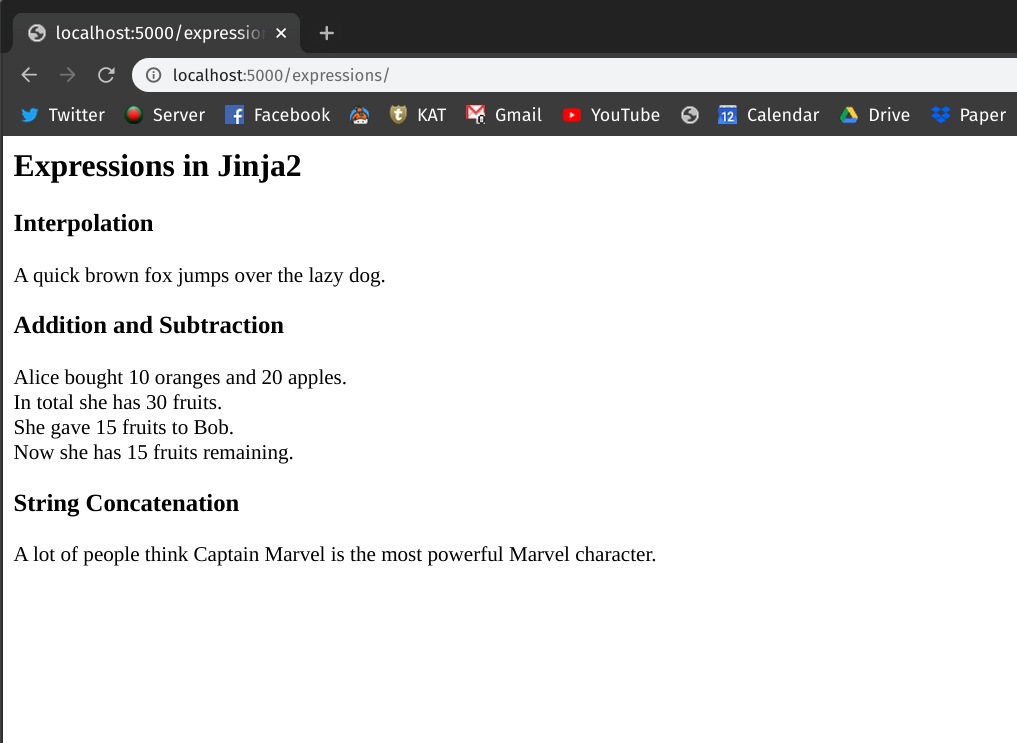
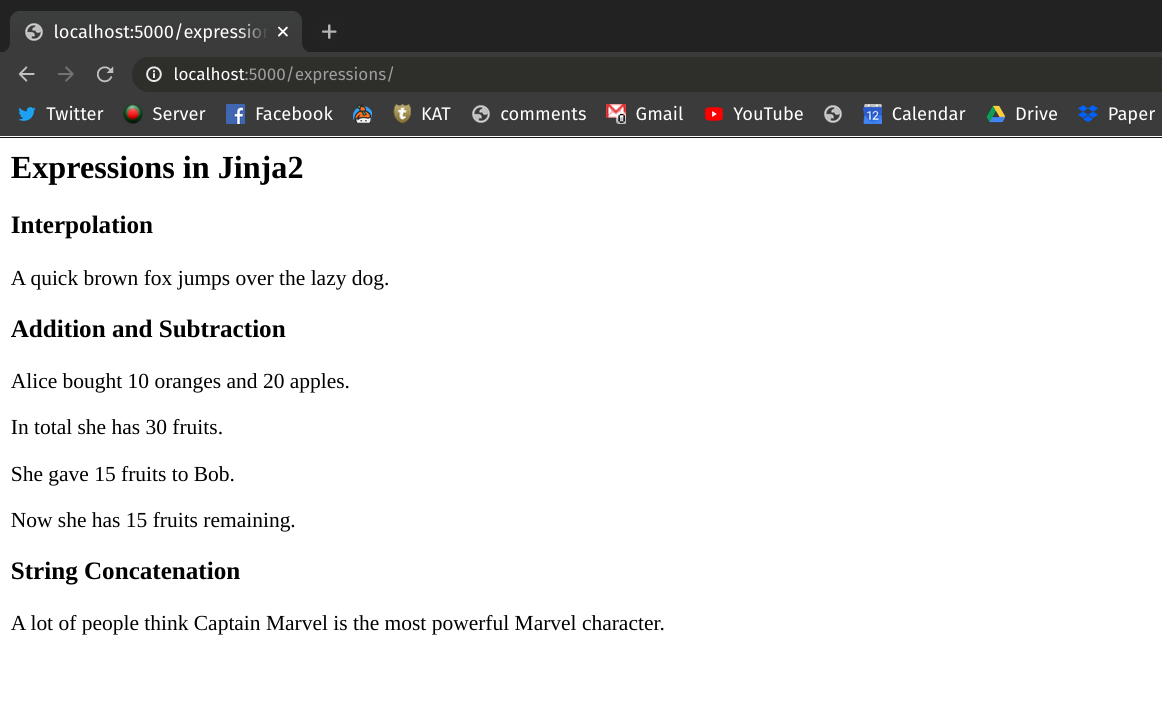
Rephrase

Changed region(s): [[0.0, 0.0, 1.0, 0.8886], [0.0, 0.0919, 0.0305, 0.1226]]

diff --git a/curriculum/section06/lectures/04_jinja2_expressions_and_data_structures/README.md b/curriculum/section06/lectures/04_jinja2_expressions_and_data_structures/README.md
@@ -1,16 +1,16 @@
 # Jinja2: Expressions & Data Structures
 
-By now you already know how to use Jinja2 and Flask's `render_template` method to interpolate placeholder values in HTML files and send them to the browser. Jinja2 also lets you evaluate Python expressions and data structures while filling in the placeholders with values that are more complex than simple variables.
+By now you already know how to use Jinja2 and Flask's `render_template` method to interpolate placeholder values into HTML files and send them to the browser. Jinja2 also lets you evaluate a limited[^jinja2-limitations] number of Python expressions and data structures.
 
 In this lesson, you'll see how you can evaluate different Python expressions, incorporate a few data structures in Jinja2 and render them using the `render_template` method.
 
 ## What is an Expression?
 
-In Python, an expression[^expression] represents something; like a number, a string, or an instance of a class. To be an expression, a Python instruction has to evaluate down to a single value.
+A Python expression[^expression] is any piece of code; like a number, a string, or an instance of a class that evaluates down to a single value.
 
 > An expression is an instruction that combines values and operators and always evaluates down to a single value.
 
-For example, `>>> foo = 2 + 2` is an expression that evaluates to a single value `4`. In contrast, a Python instruction that doesn't evaluate down to a single value is generally known as a statement, i.e. an `if-else` statement.
+For example, `>>> foo = 2 + 2` is an expression because it evaluates to a single value `4`. In contrast, a Python instruction that doesn't evaluate down to a single value is generally known as a statement (i.e. an `if-else` statement).
 
 ## Expressions in Jinja2
 
@@ -18,39 +18,45 @@ This section explains how you can evaluate Python expressions in Jinja2 and rend
 
 Let's perform some basic operations like **addition**, **subtraction** and **string concatenation** via Jinja template. To follow along, create a new HTML template file named `expressions.html` in the `/templates` folder of your Flask project's directory. The content of the file should look like this:
 
-```html{19,22,28}
+```html{20,24,28,34}
 <!-- templates/expressions.html -->
 
-<h2> Expressions in Jinja2 </h2>
+<h2>Expressions in Jinja2</h2>
 
-<h3> Interpolation </h3>
-
-<p>
-    A quick {{ color }} {{ animal_one }} jumps over the lazy
-    {{ animal_two }}.
-</p>
-
-<h3> Addition and Subtraction </h3>
+<h3>Interpolation</h3>
 
 <p>
-    Alice bought {{ orange_amount }} oranges and {{ apple_amount }}
-    apples.<br>
-
-    In total she has {{ orange_amount + apple_amount }} fruits. <br>
-    She gave {{ donate_amount }} fruits to Bob. <br>
-
-    Now she has {{ orange_amount + apple_amount - donate_amount }}
-    fruits remaining.
+A quick {{ color }} {{ animal_one }} jumps over the lazy
+{{ animal_two }}.
 </p>
 
-<h3> String Concatenation </h3>
+<h3>Addition and Subtraction</h3>
 
-<p> A lot of people think {{ first_name + ' ' + last_name }} is the most
-    powerful Marvel character.
+<p>
+Alice bought {{ orange_amount }} oranges and {{ apple_amount }} apples.
+</p>
+
+<p>
+In total she has {{ orange_amount + apple_amount }} fruits.
+</p>
+
+<p>
+She gave {{ donate_amount }} fruits to Bob.
+</p>
+
+<p>
+Now she has {{ orange_amount + apple_amount - donate_amount }}
+fruits remaining.
+</p>
+
+<h3>String Concatenation</h3>
+
+<p>A lot of people think {{ first_name + ' ' + last_name }} is the most
+powerful Marvel character.
 </p>
 ```
 
-The header tags in of the above HTML file denotes what sort of expression operations are taking place in the template. In line **18**, **21** and **26**, notice how you can perform different operations like addition, subtraction and string concatenation inside the double braces `{{ }}`.
+The header tags in of the above HTML file denotes what sort of expression operations are taking place in the template. In line **19**, **23**, **27** and **33** notice how you can perform different operations like addition, subtraction and string concatenation inside the double braces `{{ }}`.
 
 Now we'll evaluate these expression operations and render the results using the `render_template` method. Let's create a new endpoint in our `app.py` file named `/expressions/` and perform rendering there.
 
@@ -95,7 +101,7 @@ def render_expressions():
 
 In the above file, we just have to define the placeholder variables and the evaluation part will be taken care by the Jinja2 template engine.
 
-In line **25**, we've taken advantage of Python dictionary to pass keyworded arguments to the `render_template` method. Instead of supplying all the arguments directly, you can use dictionary unpacking operator `**` (in line **35**) to pass the arguments implicitly while keeping the `render_template` method clean.
+In line **26**, we've taken advantage of Python dictionary to pass keyworded arguments to the `render_template` method. Instead of supplying all the arguments directly, you can use dictionary unpacking operator `**` (in line **36**) to pass the arguments implicitly while keeping the `render_template` method clean.
 
 If you run the Flask application and go to [http://localhost:5000/expressions/](http://localhost:5000/expressions/) URL in your browser, you'll see that Jinja2 has evaluated all the expression operations defined in the `expressions.html` file and filled in the corresponding placeholder values.
 
@@ -103,45 +109,43 @@ If you run the Flask application and go to [http://localhost:5000/expressions/](
 
 ## Data Structures in Jinja2
 
-Jinja2 template language also lets you use Python's built-in or user defined data structures inside a template. This can give you a lot of power since it means, you can basically define any valid Python operation inside an HTML template and the template engine will evaluate that.
+Jinja2 templating language also lets you use Python's built-in or user defined data structures inside a template. This can give you a lot of power since it means you can basically define many valid Python operation inside an HTML template and the template engine will evaluate that.
 
 Let's see how you can perform various operations using Python's built-in data structures like **list**, **dict** as well as user-defined data structures like **custom classes** in an HTML template.
 
 Create a new HTML template named `data_structures.html` in the `/templates` folder and add the following contents to it:
 
-```html{8,9,15,16,,23,24}
+```html{8,9,15,16,22,23}
 <!-- templates/data_structures.html -->
 
-<h2> Data Structures in Jinja2 </h2>
+<h2>Data Structures in Jinja2</h2>
 
-<h3> List Operations </h3>
-
-<p>
-    I was {{ emotions[0] }} with my friend. <br>
-    I told my {{ emotions[1] }} and my {{ emotions[1] }} did end.
-</p>
-
-<h3> Dictionary Operations </h3>
+<h3>List Operations</h3>
 
 <p>
-    This is a {{ car["brand"] }} {{ car["model"] }} {{ car["year"] }}.
+Jina said her top three favorite movies were {{ movies[0] }},
+{{ movies[1] }} and  {{ movies[2]}}.
 </p>
 
-
-<h3> Custom Data Structure Operations </h3>
+<h3>Dictionary Operations</h3>
 
 <p>
-    The four Galilean moons of Jupiter are {{ moons.first }},
-    {{moons.second}}, {{moons.third}} and {{moons.fourth}}.
+This is a {{ car["brand"] }} {{ car["model"] }}, built in {{ car["year"] }}.
 </p>
 
+<h3>Custom Data Structure Operations</h3>
+
+<p>
+The four Galilean moons of Jupiter are {{ moons.first }},
+{{moons.second}}, {{moons.third}} and {{moons.fourth}}.
+</p>
 ```
 
 Here, in the above HTML file, the highlighted line show operations concerning a *list*, *dict* and a *custom class* respectively.
 
 To understand how the values will get filled, let's define a new endpoint named `/data-structures/` in the `app.py` file and add the necessary logics to fill in the placeholders mentioned in the `data-structures.html` file:
 
-```python{26}
+```python{34}
 from flask import Flask
 from flask import render_template
 
@@ -160,16 +164,24 @@ class GalileanMoons:
 def render_data_structures():
 
     # list operations
-    emotions = ["angry", "wrath"]
+    movies = [
+        "Leon the Professional",
+        "The Usual Suspects",
+        "A Beautiful Mind"
+    ]
 
     # dictionary operations
-    car = {"brand": "Tesla", "model": "Roadstar", "year": "2020"}
+    car = {
+        "brand": "Tesla",
+        "model": "Roadstar",
+        "year": "2020",
+    }
 
     # custom data structure operations
     moons = GalileanMoons("Io", "Europa", "Ganymede", "Callisto")
 
     kwargs = {
-        "emotions": emotions,
+        "movies": movies,
         "car": car,
         "moons": moons,
     }
@@ -177,7 +189,7 @@ def render_data_structures():
     return render_template("data_structures.html", **kwargs)
 ```
 
-Here we've defined the list (`emotions`), dictionary (`car`) and a custom data structure with a class named `GalileanMoons`. In line **24**, we've created an instance `moon` of the custom class which is used in the template.
+Here we've defined the list (`emotions`), dictionary (`car`) and a custom data structure with a class named `GalileanMoons`. In line **33**, we've created an instance `moon` of the custom class which is used in the template.
 
 All these variables pointing to different data structures get picked up by the Jinja2 template engine and the `render_template` method renders them to your browser.
 
@@ -194,3 +206,5 @@ Notice how all the placeholder data structure operations have been evaluated and
 In this lesson you've learned how you can evaluate expressions in HTML files using the Jinja2 template engine. You've also learned how to use Python's built-in and user-defined data structures in HTML template files.
 
 [^expression]: [What is an expression in Python?](https://stackoverflow.com/a/30114220/8963300)
+
+[^jinja2-limitations]: [Putting logics in templates](https://jinja.palletsprojects.com/en/2.10.x/faq/#isn-t-it-a-terrible-idea-to-put-logic-into-templates)
